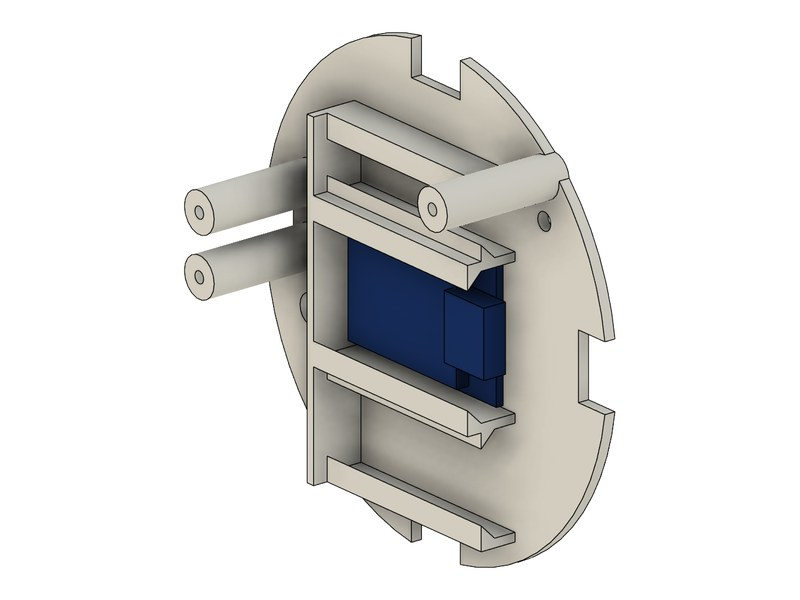
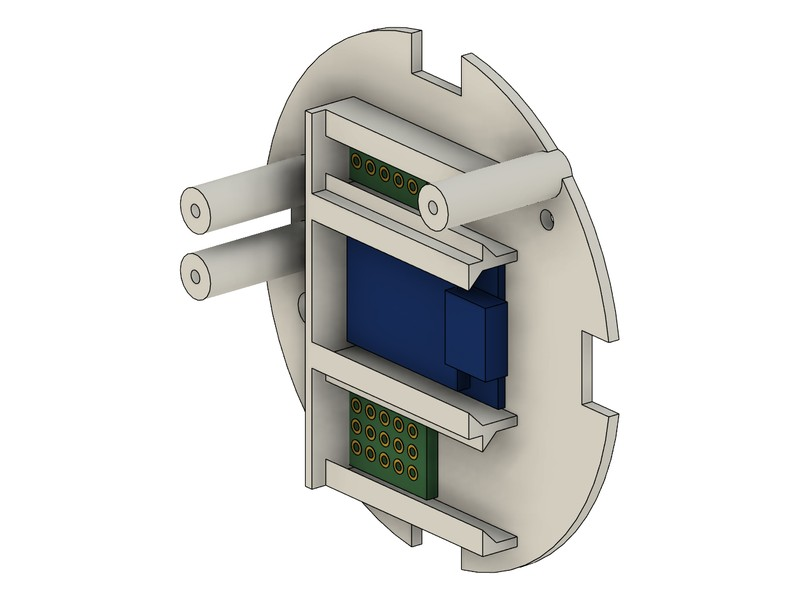
Flush-mount instructions: show the distribution boards in the part 2 render
Claude-Session: https://claude.ai/code/session_01AKeckaUjEpQSGav6KFAgd1

Changed region(s): [[0.2188, 0.03, 0.7812, 0.96], [0.3125, 0.45, 0.3438, 0.54], [0.2812, 0.24, 0.3438, 0.3]]

diff --git a/FlushMount/instructions/body.md b/FlushMount/instructions/body.md
@@ -59,7 +59,7 @@ You also need:
 
 This is how the sensors sit on part 1 (yellow PIR, green presence sensor, blue brightness sensor, red temperature sensor, purple LED) and the ESP and the power supply on part 2:
 
-| Part 1 with sensors | Part 2 with ESP | Part 2 with power supply (back) |
+| Part 1 with sensors | Part 2 with ESP and distribution boards | Part 2 with power supply (back) |
 | --- | --- | --- |
 | <img src="images/Part1WithSensors.jpg" width="260" alt="Part1WithSensors"> | <img src="images/Part2WithEsp.jpg" width="260" alt="Part2WithEsp"> | <img src="images/Part2WithEspAndPsu.jpg" width="260" alt="Part2WithEspAndPsu"> |
 
